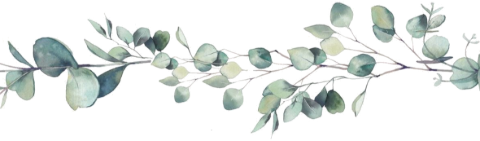
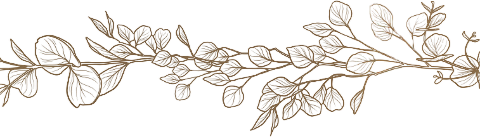
Cambia los separadores por la rama dibujada a línea
Misma preparación que la anterior (girada a horizontal, sin fondo,
480 px), con las líneas reforzadas para que se lean en tamaño chico.

Changed region(s): [[0.0, 0.0, 1.0, 0.9927], [0.5, 0.9343, 0.5312, 0.9635]]

diff --git a/index.html b/index.html
@@ -688,7 +688,7 @@
     </span>
     <p class="eyebrow" style="text-align:center">Para</p>
     <h2 class="envelope-name" id="envelope-name">Nuestros invitados</h2>
-    <img class="divider small" src="assets/img/eucalipto.png" alt="" width="480" height="141">
+    <img class="divider small" src="assets/img/eucalipto.png" alt="" width="480" height="137">
     <p class="envelope-date">19 de diciembre de 2026</p>
     <p class="envelope-sub">Los invitamos cordialmente</p>
     <button type="button" class="btn solid" id="envelope-open">Abrir</button>
@@ -717,7 +717,7 @@
     <img class="hero-photo photo-img" src="https://res.cloudinary.com/tcdnm8vm/image/upload/f_auto,q_auto,w_1000,c_limit/v1792197193/PHOTO-2019-03-06-16-54-44.jpg" alt="Ale y JuanSe frente a la Torre Eiffel" width="1536" height="2730">
     <p class="eyebrow">Nos casamos</p>
     <p class="names">Ale &amp; JuanSe</p>
-    <img class="divider small" src="assets/img/eucalipto.png" alt="" width="480" height="141">
+    <img class="divider small" src="assets/img/eucalipto.png" alt="" width="480" height="137">
     <p class="date-line">19 de diciembre de 2026</p>
   </div>
 </div>
@@ -733,7 +733,7 @@
 </section>
 
 <section class="welcome">
-  <img class="divider" src="assets/img/eucalipto.png" alt="" width="480" height="141">
+  <img class="divider" src="assets/img/eucalipto.png" alt="" width="480" height="137">
   <p>Con el corazón lleno de alegría, queremos que nos acompañes en el día en que unimos nuestras vidas para siempre.</p>
   <p class="eyebrow gallery-title">Nuestros 10 años</p>
   <div class="gallery-coverflow">
@@ -914,7 +914,7 @@
 </section>
 
 <footer>
-  <img class="divider small" src="assets/img/eucalipto.png" alt="" width="480" height="141">
+  <img class="divider small" src="assets/img/eucalipto.png" alt="" width="480" height="137">
   <p class="hashtag">#AleyJuanSe2026</p>
   <p class="credit">Con todo nuestro cariño &mdash; Ale &amp; JuanSe</p>
 </footer>
